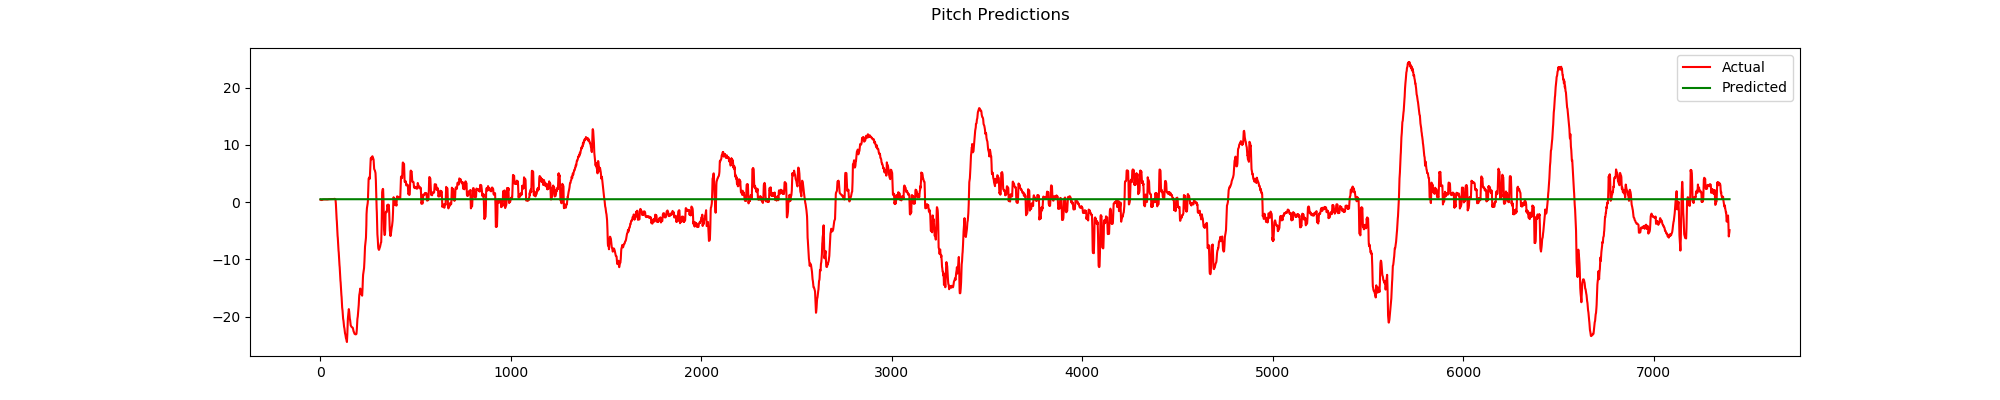
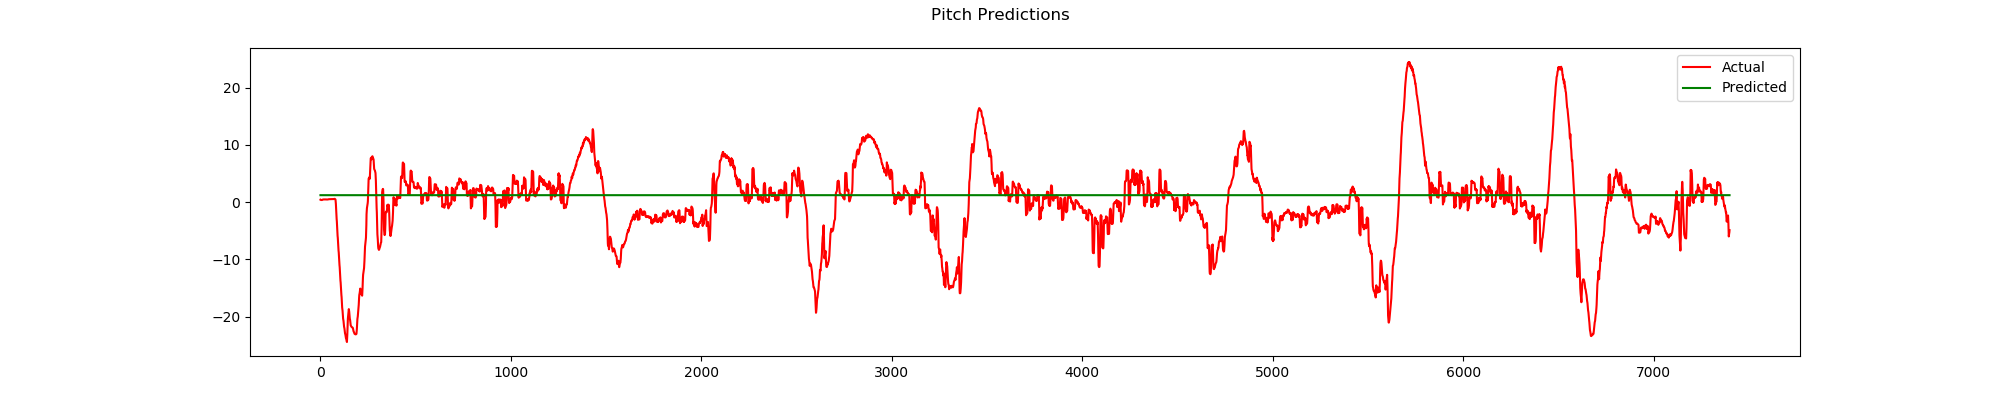
Got simple nonlinear system identification working for 1 dimension SISO system

Changed region(s): [[0.155, 0.48, 0.868, 0.51]]

diff --git a/RNNTutorials/NonLinearApproximation_1D.py b/RNNTutorials/NonLinearApproximation_1D.py
@@ -1,0 +1,88 @@
+from __future__ import division, print_function, absolute_import
+
+import tflearn
+from tflearn.layers.normalization import batch_normalization
+import numpy as np
+import pandas as pd
+import math
+import matplotlib
+matplotlib.use('TkAgg')   # use('Agg') for saving to file and use('TkAgg') for interactive plot
+import matplotlib.pyplot as plt
+
+# Configuration Variables
+input_dim = 1
+output_dim = 1
+steps_of_history = 2000
+batch_len = 128
+epoch_len = 15
+neurons_per_layer = 128
+layer_dropout = (1.0, 1.0)
+step_radians = 0.01
+
+
+# Generate some non-linear IO
+input = np.sin(np.arange(0, 20*math.pi, step_radians))
+randomVal = np.random.random(np.shape(input)) * 0.1
+input = input + randomVal
+output = np.tan(input + np.cos(input) - np.tan(input)) - 0.5
+
+plt.figure(figsize=(20, 4))
+plt.plot(input, 'r-', label='Input')
+plt.plot(output, 'g-', label='Output')
+plt.legend()
+# plt.show()
+
+# Generate the input and training data
+input_seq = []
+output_seq = []
+
+for i in range(0, len(input) - steps_of_history):
+    input_seq.append(input[i:i+steps_of_history])
+    output_seq.append(output[i+steps_of_history])
+
+trainX = np.reshape(input_seq, [-1, input_dim, steps_of_history])
+trainY = np.reshape(output_seq, [-1, output_dim])
+
+
+# Build the network model
+input_layer = tflearn.input_data(shape=[None, input_dim, steps_of_history])
+
+layer1 = tflearn.simple_rnn(input_layer,
+                            n_units=neurons_per_layer,
+                            activation='relu',
+                            return_seq=True,
+                            dropout=layer_dropout,
+                            name='Layer1')
+layer2 = tflearn.simple_rnn(layer1,
+                            n_units=neurons_per_layer,
+                            activation='sigmoid',
+                            dropout=layer_dropout,
+                            name='Layer2')
+
+layer3 = tflearn.fully_connected(layer2,
+                                 output_dim,
+                                 activation='linear',
+                                 name='Layer3')
+
+output_layer = tflearn.regression(layer3,
+                                  optimizer='adam',
+                                  loss='mean_square',
+                                  learning_rate=0.002)
+
+
+# Training
+model = tflearn.DNN(output_layer, clip_gradients=0.1, tensorboard_verbose=3)
+model.fit(trainX, trainY, n_epoch=epoch_len, validation_set=0.1, batch_size=batch_len)
+
+# Generate a model prediction as a very simple sanity check...
+predictY = model.predict(trainX)
+
+# Plot the results
+plt.figure(figsize=(20, 4))
+plt.plot(trainY, 'r-', label='Actual')
+plt.plot(predictY, 'g-', label='Predicted')
+plt.legend()
+plt.show()
+
+
+
